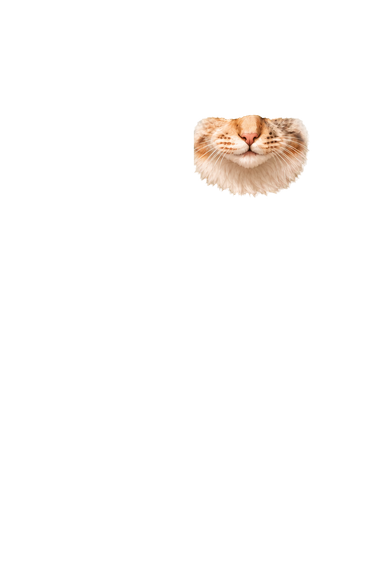
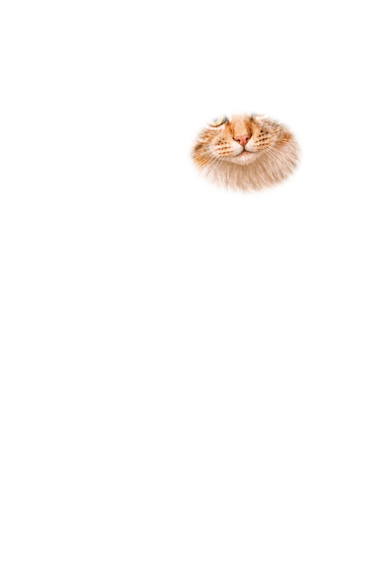
Straighten cat mouth shapes

Changed region(s): [[0.5, 0.1875, 0.8125, 0.3438]]

diff --git a/src/styles/cat-companion.css b/src/styles/cat-companion.css
@@ -848,6 +848,10 @@
   width: 11px;
 }
 
+[data-cat-companion][data-mood="curious"] {
+  --pet-head-tilt: 3deg;
+}
+
 [data-cat-companion][data-state="playing"] [data-pet-part="tail"] {
   animation-duration: 1.15s;
 }
@@ -1538,9 +1542,9 @@
 }
 
 @keyframes cat-companion-head-idle {
-  0%, 100% { transform: translate(0, 0) rotate(-0.15deg); }
-  43% { transform: translate(0.6px, -0.8px) rotate(0.2deg); }
-  72% { transform: translate(-0.4px, -0.2px) rotate(0); }
+  0%, 100% { transform: translate(0, 0) rotate(-0.65deg); }
+  43% { transform: translate(0.8px, -1px) rotate(0.9deg); }
+  72% { transform: translate(-0.5px, -0.3px) rotate(0.2deg); }
 }
 
 @keyframes cat-companion-hop-shell {
@@ -1550,18 +1554,18 @@
 
 @keyframes cat-companion-head-pat-shell {
   0%, 100% { transform: translateY(0) rotate(0); }
-  48% { transform: translateY(4px) rotate(-1deg) scale(0.985); }
+  48% { transform: translateY(4px) rotate(-2deg) scale(0.985); }
 }
 
 @keyframes cat-companion-nose-recoil-shell {
   0%, 100% { transform: translateY(0) rotate(0); }
-  42% { transform: translateY(-6px) rotate(0.5deg) scale(0.97); }
+  42% { transform: translateY(-6px) rotate(1deg) scale(0.97); }
 }
 
 @keyframes cat-companion-head-shake-shell {
   0%, 100% { transform: translateX(0) rotate(0); }
-  24%, 62% { transform: translateX(-4px) rotate(-1.5deg); }
-  43%, 81% { transform: translateX(4px) rotate(1.5deg); }
+  24%, 62% { transform: translateX(-4px) rotate(-3deg); }
+  43%, 81% { transform: translateX(4px) rotate(3deg); }
 }
 
 @keyframes cat-companion-body-pat-follow {

diff --git a/src/scripts/cat-companion/gaze.ts b/src/scripts/cat-companion/gaze.ts
@@ -100,17 +100,17 @@ export class GazeController {
     this.#root.style.setProperty('--pet-asset-gaze-y', `${(this.#currentY * 0.7).toFixed(2)}px`);
     this.#root.style.setProperty('--pet-gaze-nx', this.#currentX.toFixed(4));
     this.#root.style.setProperty('--pet-gaze-ny', this.#currentY.toFixed(4));
-    this.#root.style.setProperty('--pet-head-turn', `${(this.#currentX * 2.25).toFixed(2)}deg`);
-    this.#root.style.setProperty('--pet-head-lift', `${(this.#currentY * 1.25).toFixed(2)}px`);
+    this.#root.style.setProperty('--pet-head-turn', `${(this.#currentX * 5.25).toFixed(2)}deg`);
+    this.#root.style.setProperty('--pet-head-lift', `${(this.#currentY * 2).toFixed(2)}px`);
     this.#root.style.setProperty(
       '--pet-body-follow-turn',
-      `${(this.#currentX * 0.45).toFixed(2)}deg`,
+      `${(this.#currentX * 0.79).toFixed(2)}deg`,
     );
     this.#root.style.setProperty(
       '--pet-body-follow-lift',
       `${(this.#currentY * 0.3).toFixed(2)}px`,
     );
-    this.#root.style.setProperty('--pet-book-turn', `${(this.#currentX * 1).toFixed(2)}deg`);
+    this.#root.style.setProperty('--pet-book-turn', `${(this.#currentX * 1.5).toFixed(2)}deg`);
     this.#root.style.setProperty(
       '--pet-book-lift',
       `${(-Math.abs(this.#currentX) * 1.5).toFixed(2)}px`,
